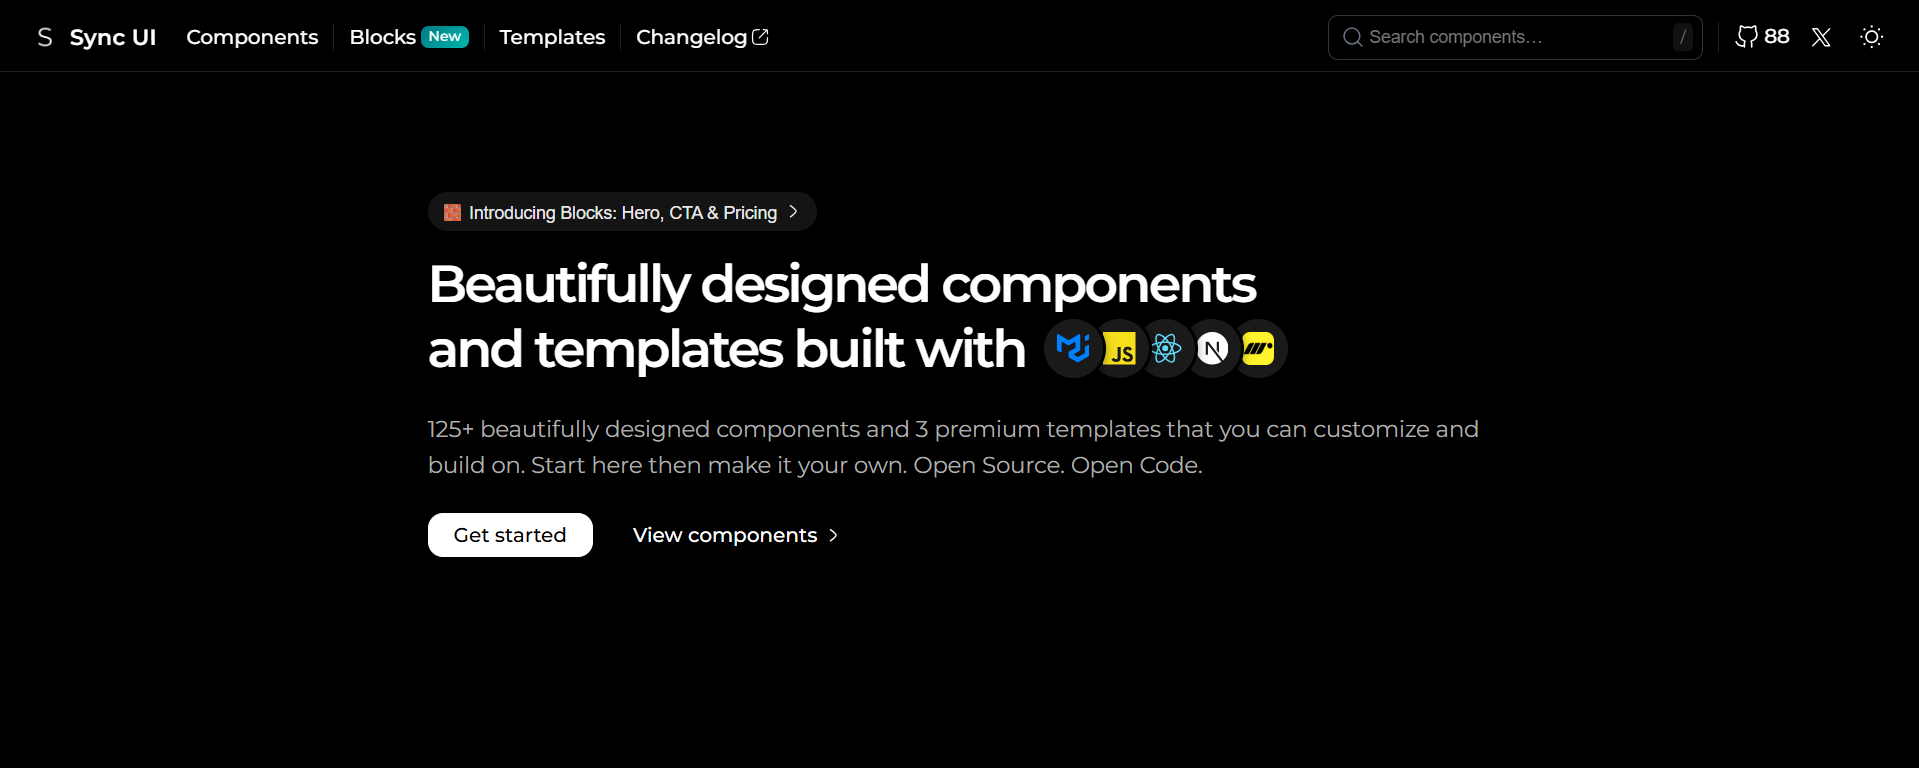
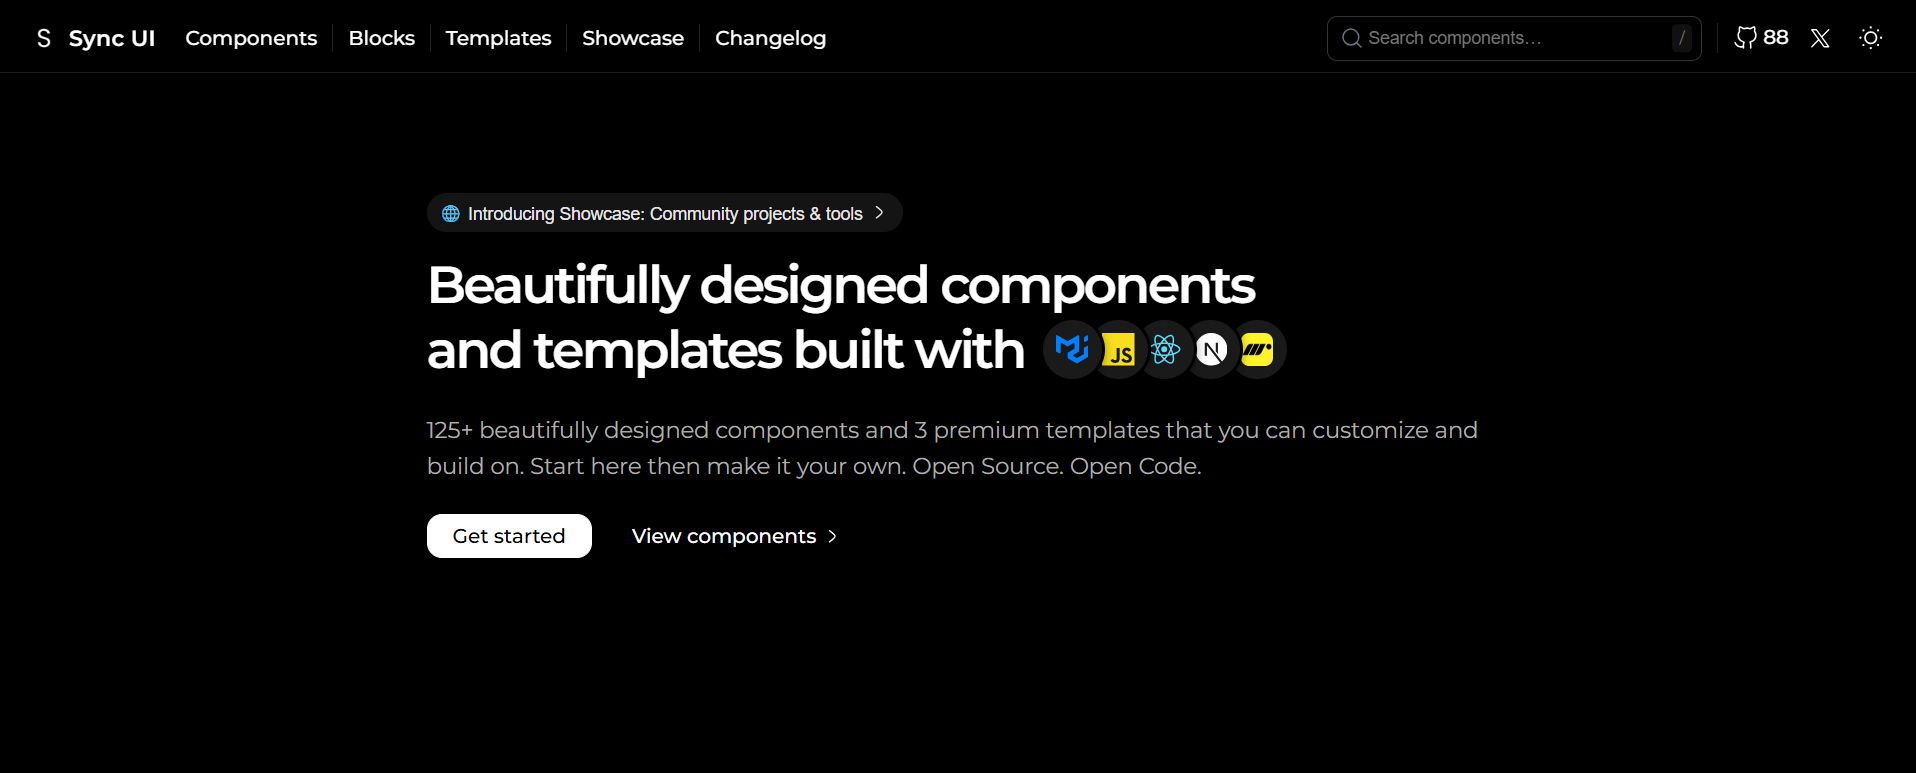
docs: add showcase page and update blocks in readme

diff --git a/README.md b/README.md
@@ -7,13 +7,13 @@
 [![GitHub Repo Views](https://gitviews.com/repo/AbhiVarde/syncui.svg)](https://github.com/AbhiVarde/syncui)
 [![Docker](https://img.shields.io/badge/docker-ready-2496ED?logo=docker&logoColor=white)](https://github.com/AbhiVarde/syncui)
 
-**Free React UI library with 125+ components, 10+ blocks, and 3 premium templates. Built with MUI and Motion (motion/react).**
+**Free React UI library with 125+ components, 13+ blocks, and 3 premium templates. Built with MUI and Motion (motion/react).**
 
 ![Sync UI Preview](https://www.syncui.design/og-image.png)
 
 <div align="center">
 
-[🌐 Website](https://syncui.design) • [📚 Documentation](https://syncui.design/docs) • [🧩 Components](https://syncui.design/components) • [🧱 Blocks](https://syncui.design/blocks) • [🚀 Templates](https://syncui.design/templates)
+[🌐 Website](https://syncui.design) • [📚 Documentation](https://syncui.design/docs) • [🧩 Components](https://syncui.design/components) • [🧱 Blocks](https://syncui.design/blocks) • [🚀 Templates](https://syncui.design/templates) • [🌟 Showcase](https://syncui.design/showcase)
 
 </div>
 
@@ -43,13 +43,14 @@ Buttons, Cards, Tables, Forms, Date Pickers, Time Pickers, Autocompletes, Loader
 
 [→ Browse Components](https://syncui.design/components)
 
-### 🧱 10+ Free Blocks
+### 🧱 13+ Free Blocks
 
 Pre-built UI sections for landing pages:
 
 **Hero Blocks** (3) — Eye-catching landing page headers  
 **CTA Blocks** (4) — Call-to-action sections  
-**Pricing Blocks** (3) — Professional pricing tables
+**Pricing Blocks** (3) — Professional pricing tables  
+**Stats Blocks** (3) — Key metric sections with icons and cards
 
 [→ Explore Blocks](https://syncui.design/blocks)
 
@@ -154,6 +155,7 @@ Sync UI is open source and available under the [MIT License](https://choosealice
 **Components:** https://syncui.design/components  
 **Blocks:** https://syncui.design/blocks  
 **Templates:** https://syncui.design/templates  
+**Showcase:** https://syncui.design/showcase  
 **GitHub:** https://github.com/AbhiVarde/syncui  
 **Twitter:** https://x.com/syncuidesign  
 **Changelog:** https://syncui.design/docs/changelog
